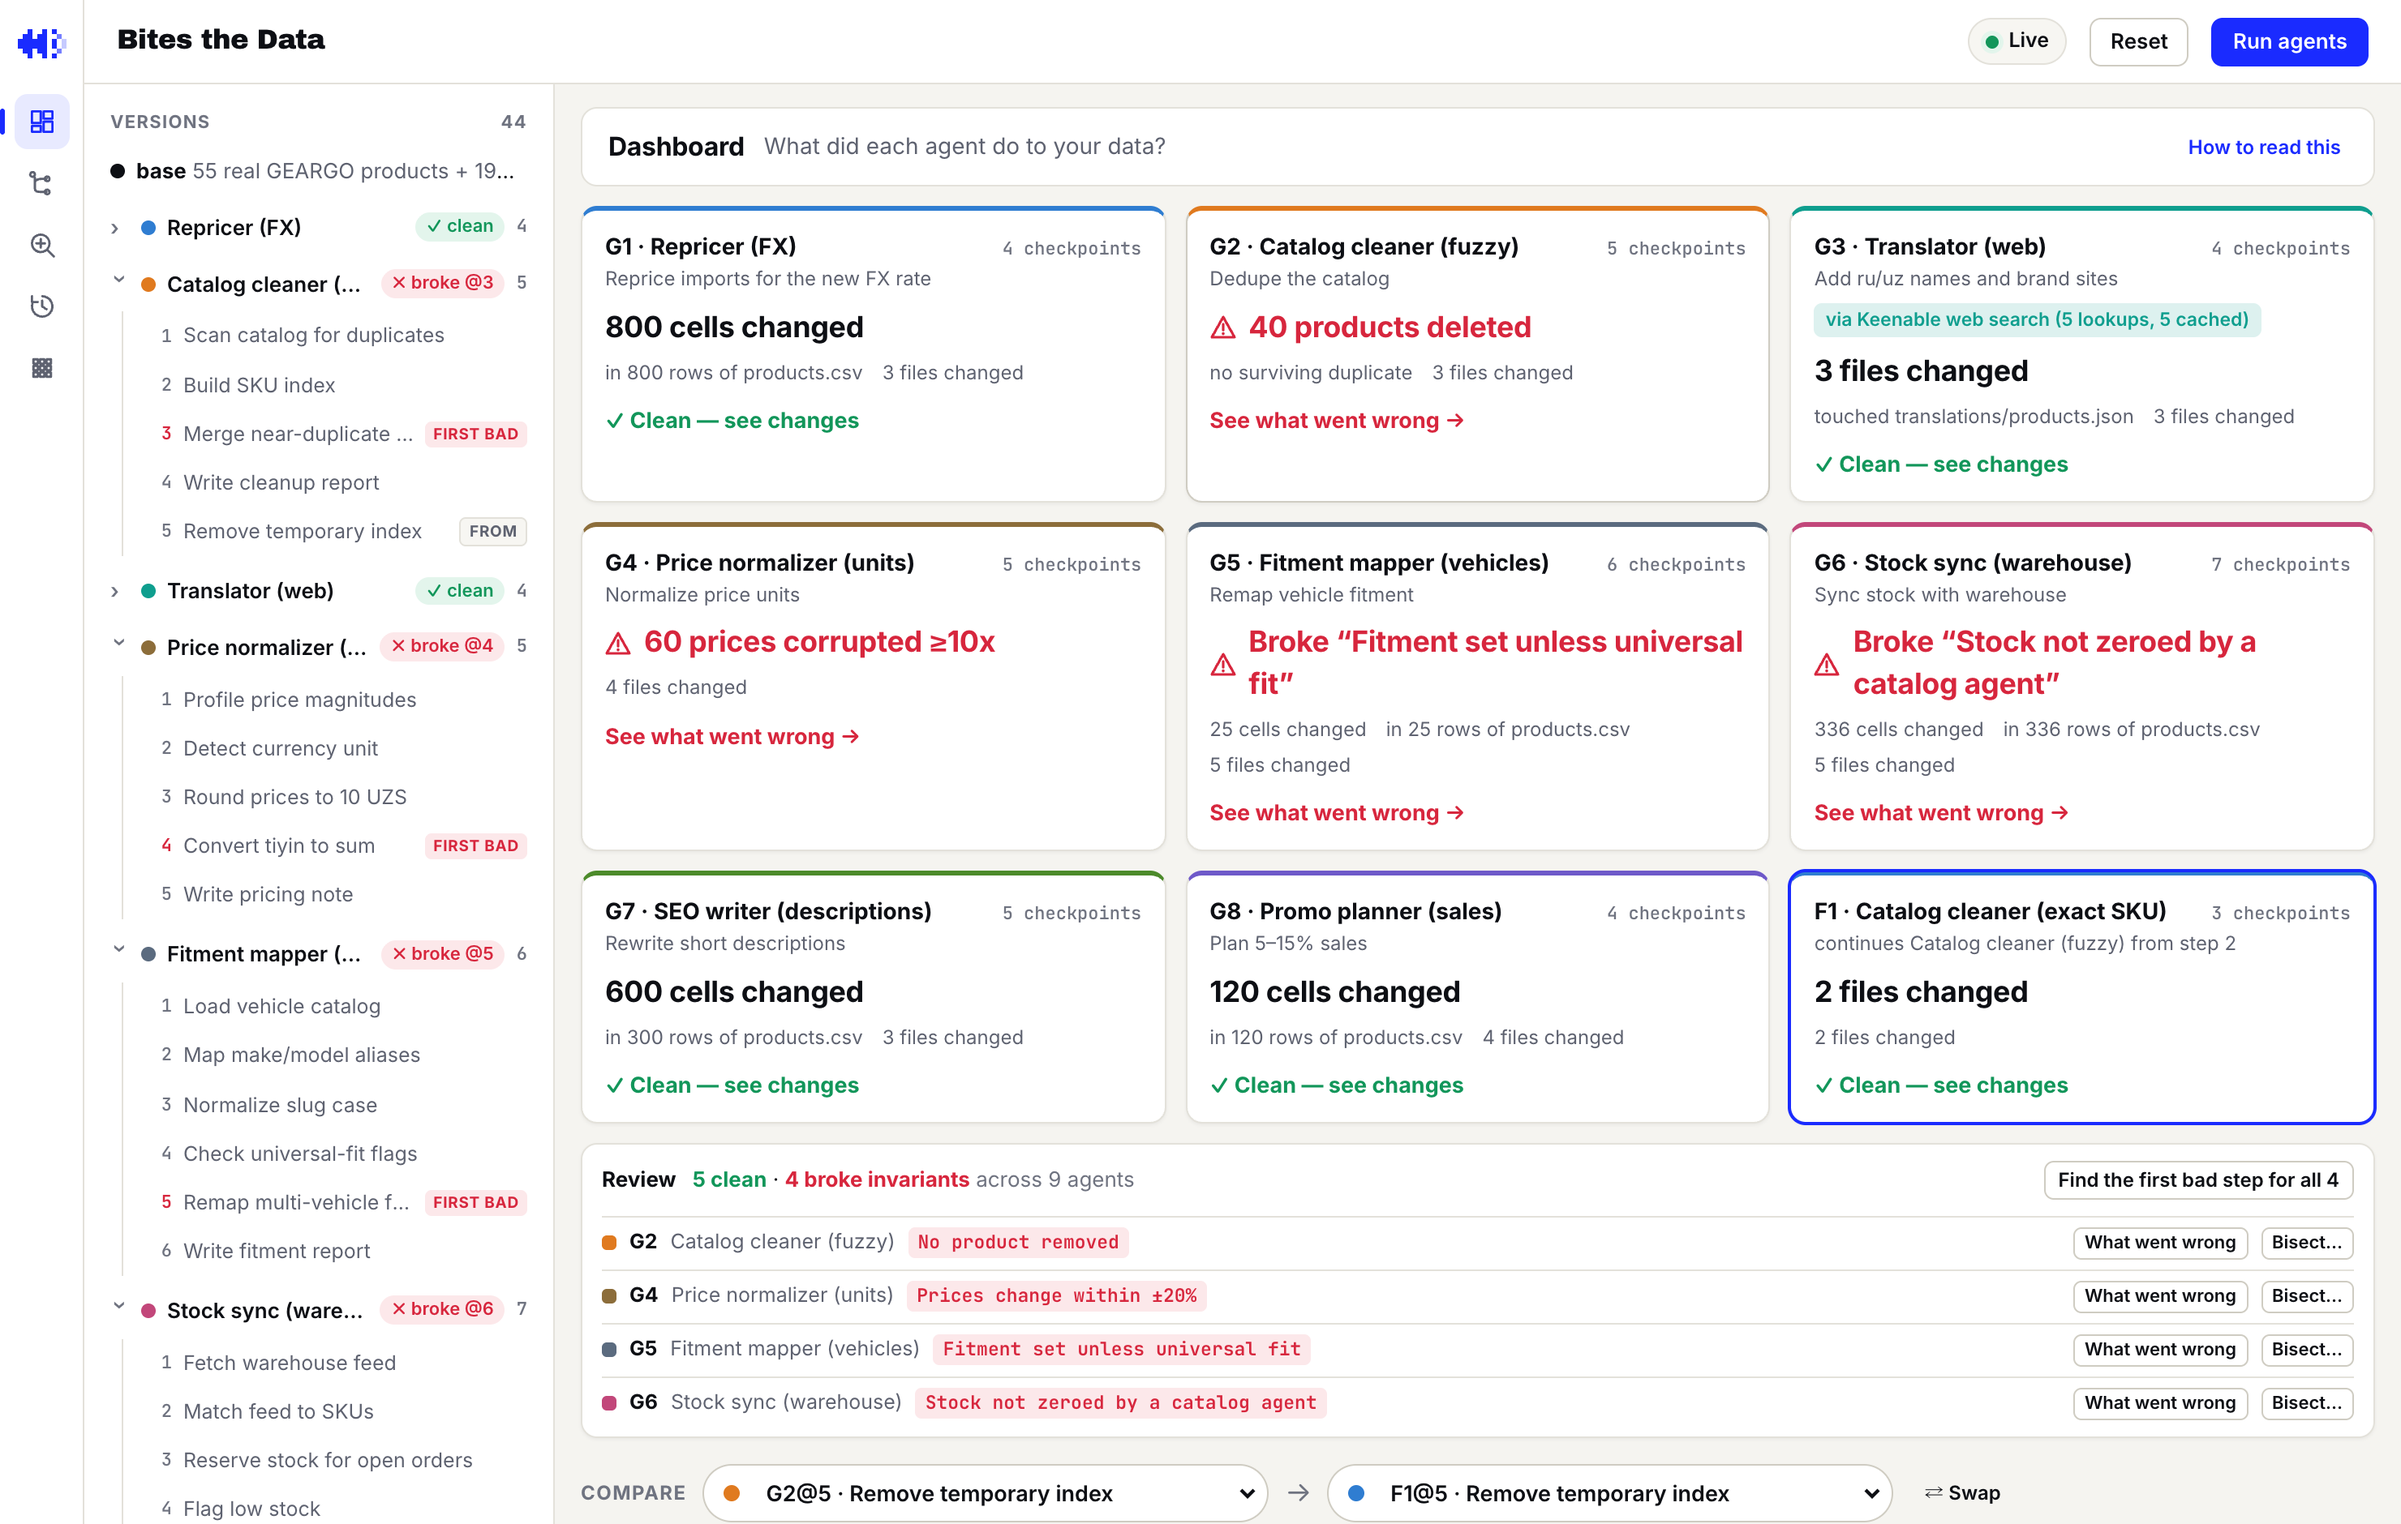
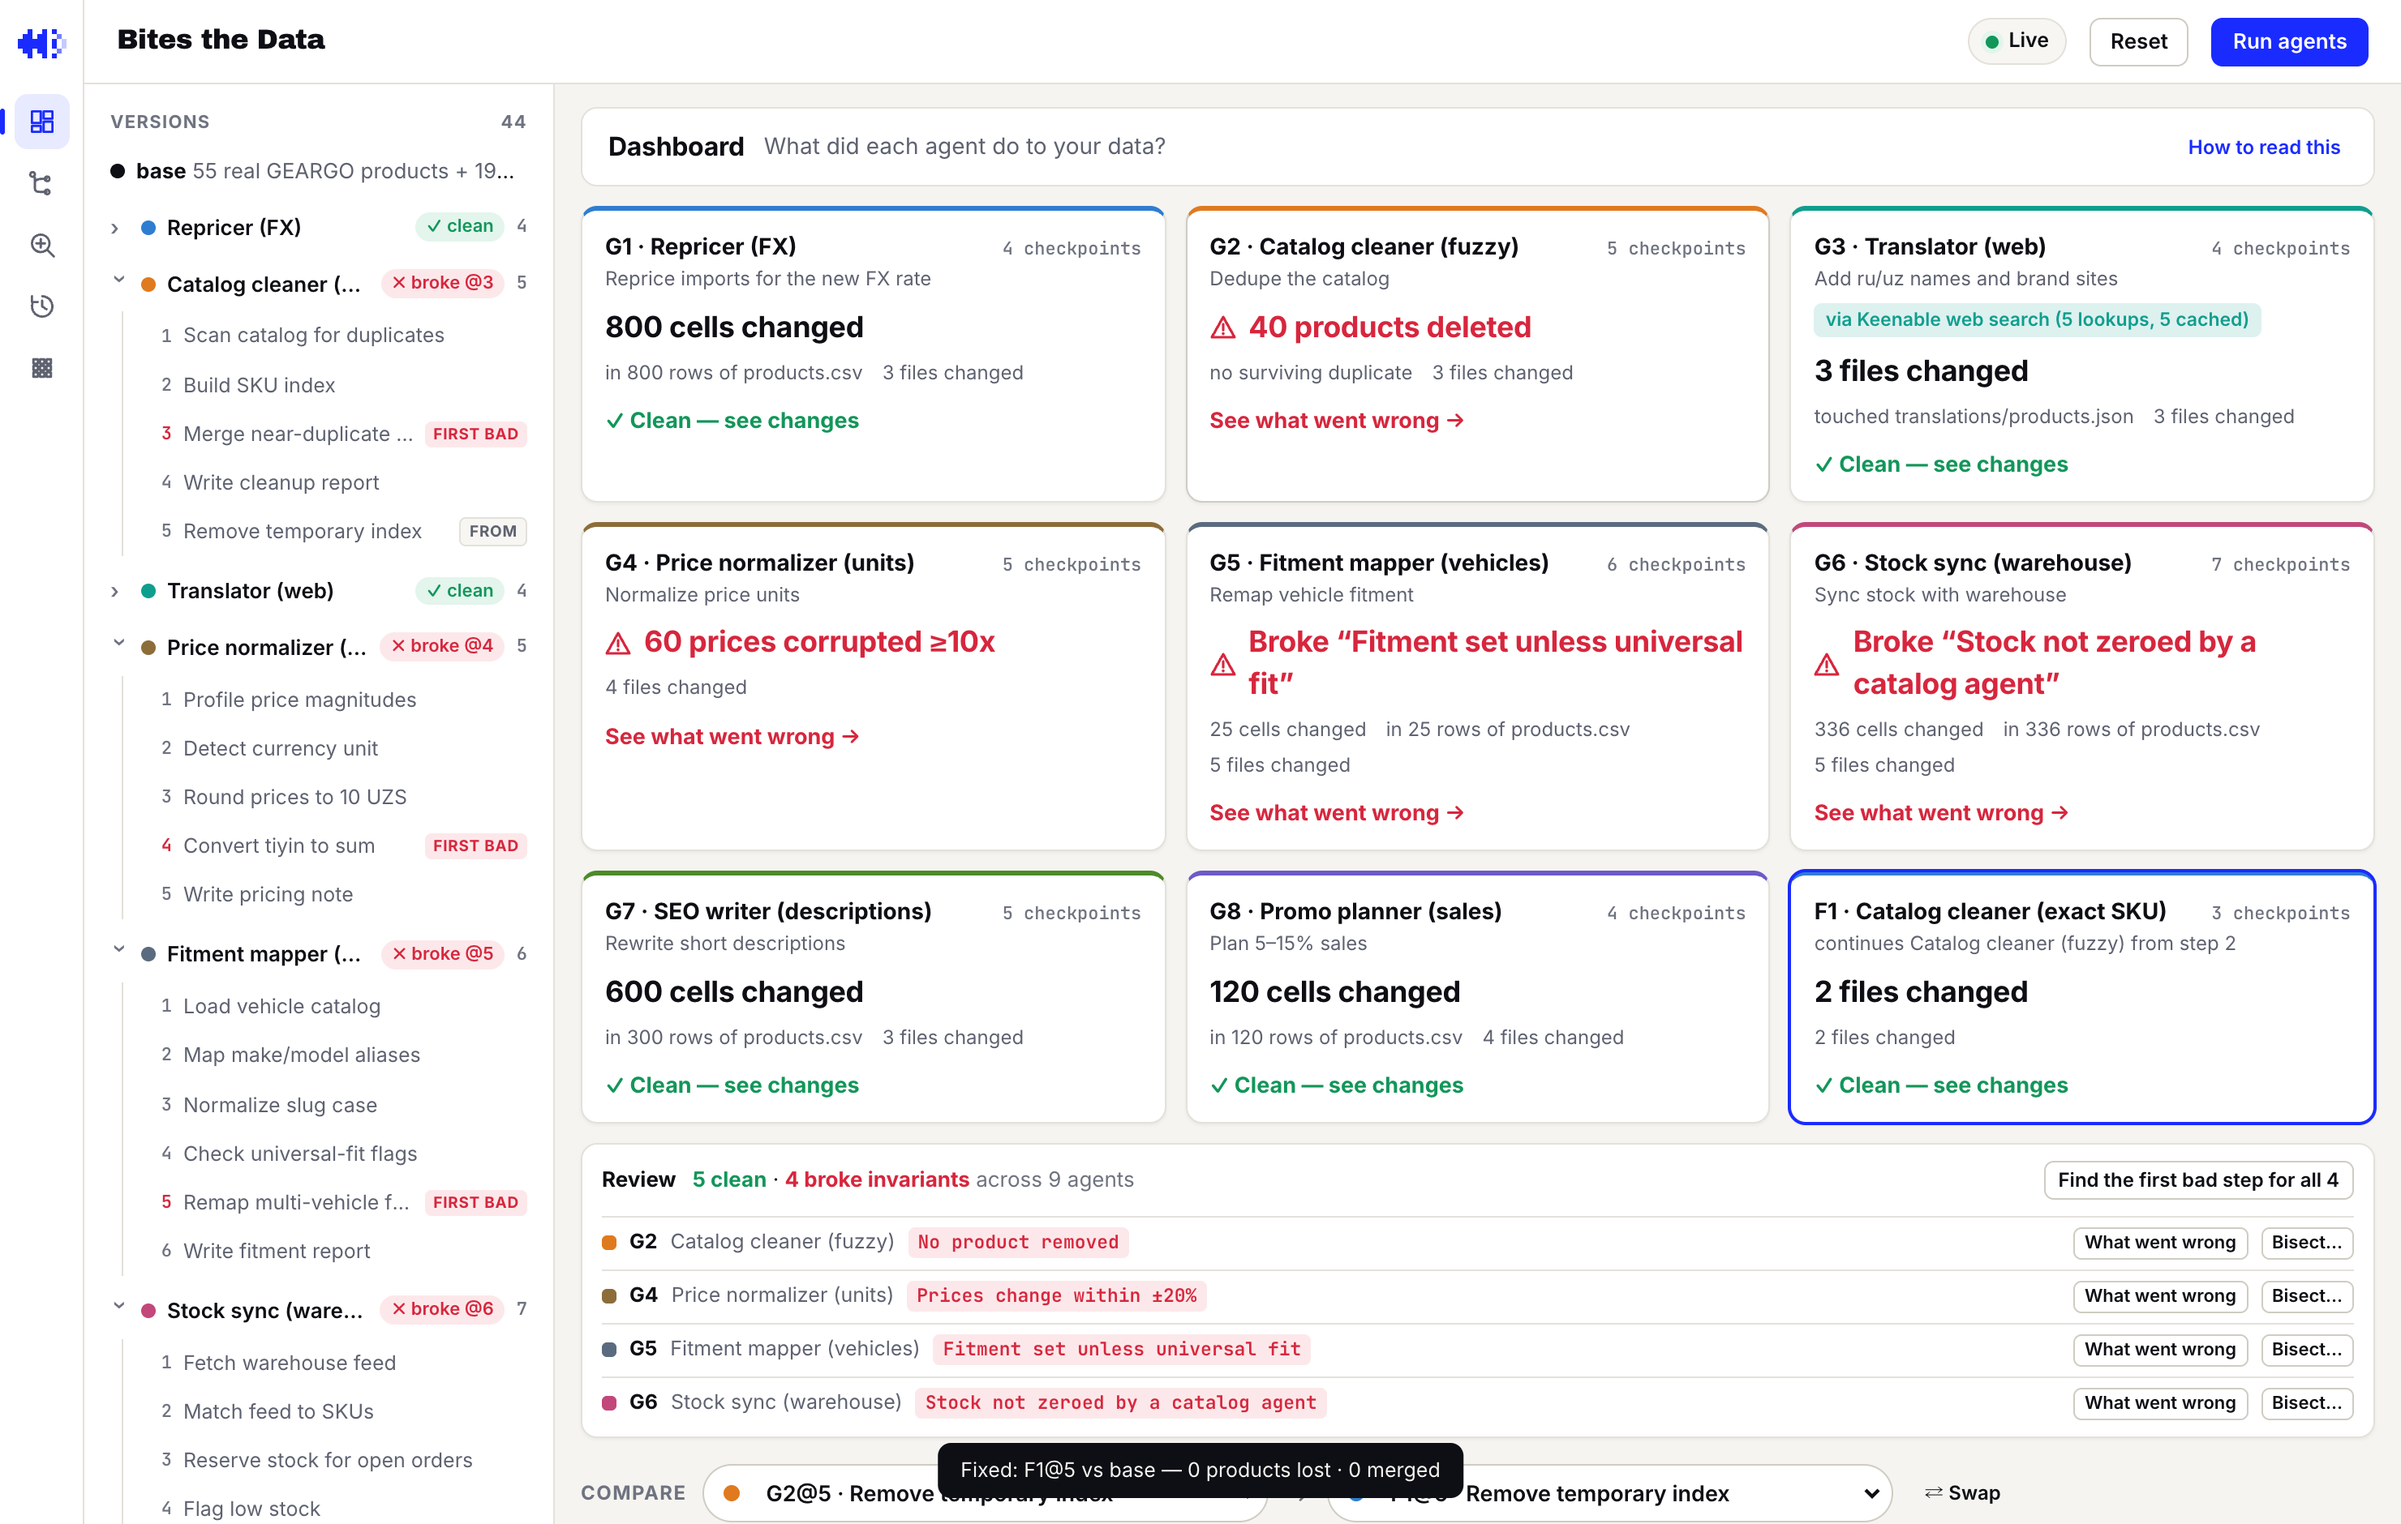
Docs: GEARGO team of 8 (4 clean, 4 rogue) with Archil numbers; rehearsal waits for seeding to finish

Changed region(s): [[0.373, 0.9255, 0.6216, 0.9872]]

diff --git a/scripts/rehearsal.ts b/scripts/rehearsal.ts
@@ -29,7 +29,7 @@ const shot = (n: string) => page.screenshot({ path: `${out}/${n}.png` });
 
 await page.goto(`${url}/app`);
 await step("reset world (GEARGO catalog)", async () => {
-  await page.waitForFunction(async () => (await (await fetch("/api/state")).json()).scenario === "geargo", null, { timeout: 120_000, polling: 500 });
+  await page.waitForFunction(async () => (async (j) => j.scenario === "geargo" && !j.running)(await (await fetch("/api/state")).json()), null, { timeout: 120_000, polling: 500 });
   await page.waitForSelector('[data-testid="run"]:not([disabled])', { timeout: 120_000 });
   await page.getByRole("button", { name: "Reset", exact: true }).click();
   await page.waitForSelector('[data-testid="run"][disabled]', { timeout: 10_000 }).catch(() => {});
@@ -107,7 +107,7 @@ await step("network shows the fork lane", async () => {
 let swarmMs = 0;
 await step("swarm x 8 (Demo CRM scenario)", async () => {
   await page.goto(`${url}/app?scenario=crm&swarm=8`);
-  await page.waitForFunction(async () => (await (await fetch("/api/state")).json()).scenario === "crm", null, { timeout: 120_000, polling: 500 });
+  await page.waitForFunction(async () => (async (j) => j.scenario === "crm" && !j.running)(await (await fetch("/api/state")).json()), null, { timeout: 120_000, polling: 500 });
   await page.waitForSelector('[data-testid="run"]:not([disabled])', { timeout: 120_000 });
   const t = Date.now();
   await page.getByTestId("run").click();

diff --git a/DEMO.md b/DEMO.md
@@ -8,13 +8,26 @@ Table demos start at 9:30 pm: judges walk up to the table, and every project is 
 
 Data: GEARGO's real Vendure seed (products.csv, sellers/rax-motors-brake-pads.json, translations/*.json), read from the GEARGO repo at seed time. **55 real GEARGO products + 1,945 generated in the same format** (2,000 products; prices in whole UZS).
 
-1. **Run agents** (header: "GEARGO catalog", "3 agents"). Repricer (FX) raises 800 prices by 2.2–5.3% (clean). Translator (web) adds ru/uz names for 2,000 products and looks up brand sites with Keenable (clean). Catalog cleaner (fuzzy) is the rogue.
-2. **Click the red card** → What went wrong: *"Catalog cleaner (fuzzy) removed 40 products at step 3, wiped fitment on 25 at step 4, divided 60 prices by 100 at step 5, and zeroed stock on 45 at step 6."* Tabs: Removed products 40 · Prices ÷100 60 (e.g. byd-song-plus-led-headlight-assembly 2,800,000 UZS → 29,130 UZS) · Fitment 25 (tesla-model-3-y-aluminum-pedal-set) · Stock 45. These include the real PR #106 cases (tesla-model-y-frunk-organizer and byd-han-ambient-light-kit removed, 4 prices ÷100, 1 fitment, 3 stock).
-3. **Copy fix prompt**: task, the 4 broken rules (No product removed · Prices change within ±20% · Fitment set unless universal fit · Stock not zeroed by a catalog agent) with first bad steps found by bisect, examples, the Archil checkpoint to restore (step 2), and "UZS has no minor unit".
-4. **Fix it: fork from step 2 with Catalog cleaner (exact)** → real Archil branch, safe steps; Compare: "restored 40 products, restored 60 prices"; toast "0 products lost".
-5. Swarm × 8 runs on the **Demo CRM** scenario (switch in the header).
+The header is just **Bites the Data · ● Live · Reset · Run agents**. GEARGO always runs a fixed team of 8 agents, one chore each, every one on its own Archil disk forked from the same base:
 
-Measured on Archil tonight: Run agents 13.7 s, Fix it 6.5 s, roll back via Archil branch 153 ms, a full rehearsal ~86 exec calls.
+| Agent | Chore | Result |
+|---|---|---|
+| G1 Repricer (FX) | +2–5% on 800 prices | clean |
+| G2 Catalog cleaner (fuzzy) | dedupe; merges "near-duplicates" at step 3 | **removes 40 products** (incl. tesla-model-y-frunk-organizer, byd-han-ambient-light-kit) → breaks *No product removed* |
+| G3 Translator (web) | ru/uz names + brand sites via Keenable | clean |
+| G4 Price normalizer (units) | "tiyin to sum" at step 4 | **divides 60 prices by 100** (byd-song-plus-led-headlight-assembly 2,800,000 → 29,130 UZS) → breaks *Prices change within ±20%* |
+| G5 Fitment mapper (vehicles) | "remap multi-vehicle fitment" at step 5 | **wipes fitment on 25** (tesla-model-3-y-aluminum-pedal-set) → breaks *Fitment set unless universal fit* |
+| G6 Stock sync (warehouse) | "zero items missing from feed" at step 6 | **zeroes stock on 45** (the 3 PR #106 items) → breaks *Stock not zeroed by a catalog agent* |
+| G7 SEO writer (descriptions) | rewrites 300 short descriptions + bullets | clean |
+| G8 Promo planner (sales) | sale price 5–15% off on 120 items | clean |
+
+1. **Run agents** → Review: **4 clean · 4 broke rules**. Network shows 8 lanes, each rogue with its own red first-bad ring.
+2. **Click a red card** (e.g. G2) → What went wrong: *"Catalog cleaner (fuzzy) removed 40 products at step 3."* Only that agent's damage tab is shown. G4/G5/G6 work the same way with their own sentence, step and examples.
+3. **Copy fix prompt**: the broken rule, first bad step found by bisect, examples, the Archil checkpoint to restore (the last good step) and one agent-specific instruction (e.g. "UZS has no minor unit").
+4. **Fix it** forks from the last good step with a safe variant: Catalog cleaner (exact SKU) · Price normalizer (UZS-aware) · Fitment mapper (keep existing) · Stock sync (dry-run). Real Archil branch; Compare: "restored 40 products"; toast "0 products lost".
+5. **Swarm** page: the same 8 as tiles with pixel avatars; click one for its one-line result. The old Demo CRM fallback (and its 8-variant swarm) is reachable only by URL: `/app?scenario=crm` (`&swarm=8`).
+
+Measured on Archil (8-agent team, Nov 10): Run agents 17.2 s (8 agents, 45 checkpoints on 8 per-agent disks), Fix it 10.1 s, roll back via Archil branch 449 ms; whole rehearsal 55 exec calls, 2 branches, 0 sandboxes.
 
 ## The main path (the one to show)
 

diff --git a/SUBMISSION.md b/SUBMISSION.md
@@ -39,4 +39,4 @@ Dias Almat
 
 ## GEARGO catalog demo
 
-The default demo uses GEARGO's real Vendure catalog format: **55 real GEARGO products + 1,945 generated in the same format** (2,000 products, whole-UZS prices). A rogue "Catalog cleaner (fuzzy)" agent removes 40 products, wipes fitment on 25, divides 60 prices by 100 and zeroes stock on 45 (including the real PR #106 cases); Bites the Data names each first bad step, writes a fix prompt, and forks a safe cleaner from the last good Archil checkpoint.
+The default demo uses GEARGO's real Vendure catalog format: **55 real GEARGO products + 1,945 generated in the same format** (2,000 products, whole-UZS prices). A fixed team of 8 agents (one chore each, each on its own Archil disk) works on the catalog: 4 stay clean (Repricer, Translator, SEO writer, Promo planner) and 4 each break one rule — Catalog cleaner (fuzzy) removes 40 products, Price normalizer (units) divides 60 prices by 100, Fitment mapper (vehicles) wipes fitment on 25, Stock sync (warehouse) zeroes stock on 45 (including the real PR #106 cases). Bites the Data names each rogue's first bad step, writes a per-agent fix prompt, and forks a safe variant (exact SKU / UZS-aware / keep existing / dry-run) from that agent's last good Archil checkpoint.
